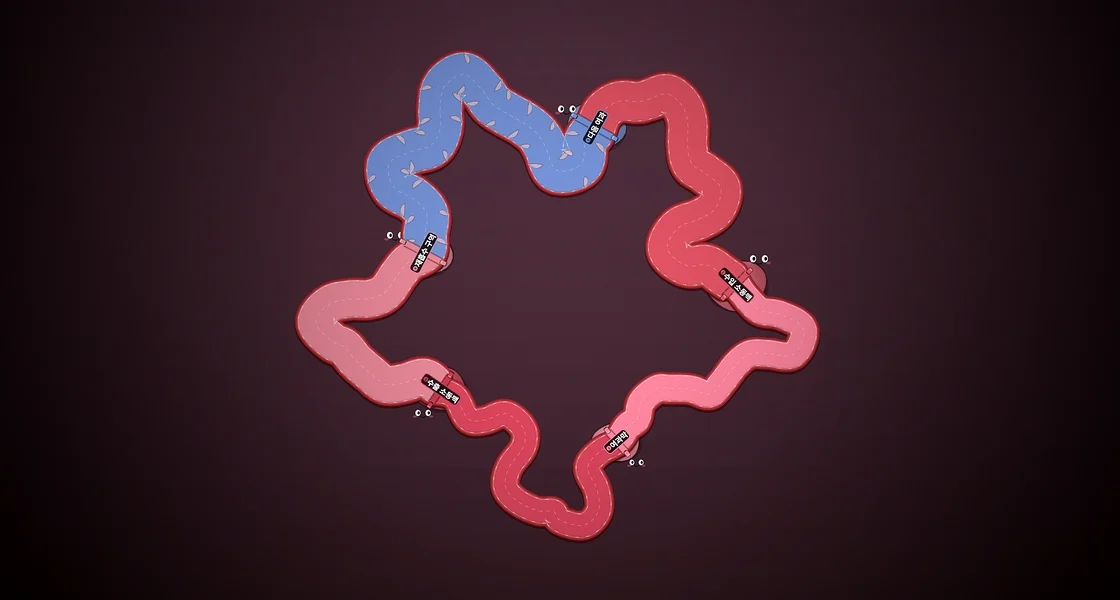
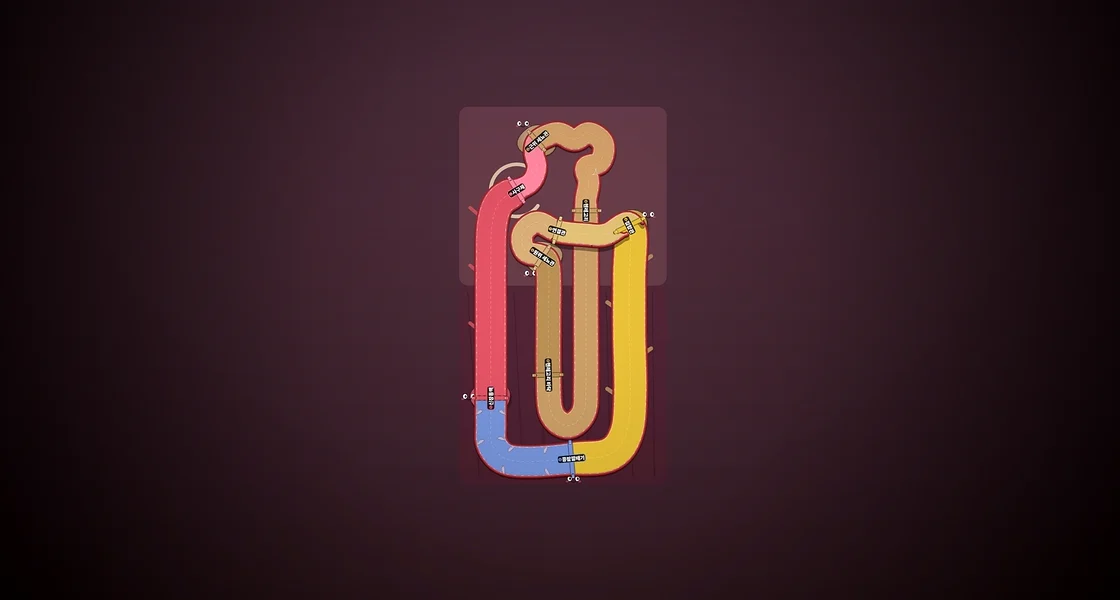
버전 116

Changed region(s): [[0.25, 0.06, 0.75, 0.9]]

diff --git a/index.html b/index.html
@@ -2105,6 +2105,37 @@ Object.assign(EN, {
 '남은 물을 빨아들이고 나머지를 내보냅니다.': 'It absorbs the remaining water and sends the rest out.',
 
 // ── 호흡계
+'섬모체': 'Ciliary body', '빛을 받는 벽': 'The wall that catches light', '맹점 쪽으로': 'Toward the blind spot', '공막 · 혈관막': 'Sclera and choroid',
+'눈을 감싸는 벽': 'The wall around the eye', '공막': 'Sclera',
+'수정체를 붙잡고 두께를 바꾸는 근육 고리 — 여기서 망막으로 올라갑니다': 'The muscle ring that changes the lens thickness; from here you climb onto the retina',
+'눈 안쪽 벽을 덮은 얇은 막. 시세포가 빛을 전기 신호로 바꿉니다.': 'A thin layer lining the inside of the eye. Its cells turn light into electrical signals.',
+'눈 안쪽 벽을 따라 크게 도는 길 — 가운데 유리체는 비어 있어요': 'A big sweep along the inner wall of the eye; the jelly in the middle stays empty',
+'황반 바로 옆, 시신경이 빠져나가는 자리로': 'Right beside the macula, to where the optic nerve leaves',
+'흰자위인 공막이 눈을 튼튼하게 감싸고, 그 안쪽 혈관막이 망막에 영양을 줍니다.': 'The white sclera protects the eye, and the choroid inside it feeds the retina.',
+'눈알 바깥 벽을 따라 앞쪽 각막으로 돌아오는 넓은 길': 'A wide road along the outer wall back to the cornea',
+'네프론 서킷': 'Nephron Circuit', '신장동맥': 'Renal artery', '피가 들어오는 길': 'Blood comes in', '사구체': 'Glomerulus', '피를 거르는 곳': 'Filters the blood',
+'보먼주머니': "Bowman's capsule", '근위 세뇨관': 'Proximal tubule', '되찾아 오기': 'Taking back', '헨레고리': 'Loop of Henle', '물 되찾기': 'Taking back water',
+'헨레고리 내려가는 관': 'Descending limb', '헨레고리 바닥': 'Bottom of the loop', '소금 내보내기': 'Pushing out salt', '헨레고리 올라가는 관': 'Ascending limb',
+'원위 세뇨관': 'Distal tubule', '마지막 조절': 'Final adjustment', '연결관': 'Connecting tubule', '집합관으로': 'To the collecting duct', '연결관 다리': 'Connecting bridge',
+'집합관': 'Collecting duct', '오줌 모으기': 'Collecting urine', '콩팥깔때기': 'Renal pelvis', '방광으로': 'To the bladder', '다시 신장동맥으로': 'Back to the renal artery',
+'심장에서 나온 피의 약 4분의 1이 콩팥으로 들어옵니다. 걸러야 할 피가 아주 많아요.': 'About a quarter of the blood from the heart goes to the kidneys. That is a lot to filter.',
+'굵은 동맥을 따라 곧게 올라가는 길': 'A straight climb along the thick artery',
+'모세혈관이 실뭉치처럼 감긴 곳. 물 · 포도당 · 요소는 빠져나가고, 단백질과 혈구는 남습니다.': 'A ball of tangled capillaries. Water, glucose and urea pass out; proteins and blood cells stay.',
+'사구체를 감싼 주머니. 걸러진 여과액이 여기로 모입니다': 'The cup around the glomerulus that collects the filtrate',
+'포도당은 전부, 물은 대부분 여기서 다시 핏속으로 되찾아 옵니다.': 'All the glucose and most of the water go back into the blood here.',
+'구불구불 꼬여 길어진 관 — 되찾는 일을 가장 많이 하는 곳': 'A long twisty tube that does most of the taking back',
+'콩팥 속질 깊이 내려갔다 올라오는 U자 고리. 내려가는 동안 물이 빠져나가 오줌이 진해집니다.': 'A U-shaped loop deep into the medulla. Water leaves on the way down, so urine gets stronger.',
+'곧게 쭉 내려가는 긴 관 — 가장 빠른 직선': 'A long straight dive: the fastest straight',
+'올라오는 관은 물은 못 지나가고 소금만 내보냅니다. 그래서 속질이 짭짤해져요.': 'The way up lets out salt but not water, so the medulla gets salty.',
+'다시 곧게 올라오는 관': 'A straight climb back up',
+'몸에 필요한 만큼 물과 염류의 양을 마지막으로 맞춥니다. 사구체 바로 옆으로 돌아와요.': 'The final fine-tuning of water and salts, right next to the glomerulus.',
+'사구체 옆에서 한 번 더 꼬이는 관': 'One more twist beside the glomerulus',
+'네프론 하나에서 만든 오줌이 집합관으로 건너갑니다.': 'Urine from one nephron crosses to the collecting duct.',
+'헨레고리 위를 다리로 건너 집합관으로': 'A bridge over the loop of Henle to the collecting duct',
+'여러 네프론의 오줌이 모이는 굵은 관. 여기서도 물을 조금 더 되찾고 콩팥깔때기로 내려갑니다.': 'A thick duct where urine from many nephrons meets, takes back a little more water and heads to the renal pelvis.',
+'굵어지며 곧게 내려가는 오줌길 — 두 번째 직선': 'A widening straight run down: the second straight',
+'오줌은 오줌관을 따라 방광으로 갑니다. 깨끗해진 피는 온몸을 돌아 다시 신장동맥으로 들어와요.': 'Urine goes down the ureter to the bladder. Clean blood travels the body and comes back through the renal artery.',
+'피는 온몸을 돌아 다시 콩팥으로 — 네프론은 쉬지 않습니다': 'Blood goes round the body and back: the nephron never rests',
 '왼쪽 세기관지': 'Left bronchioles', '공기주머니': 'Air sacs', '가로막': 'Diaphragm', '오른쪽 폐': 'Right lung', '코로 나감': 'Out through the nose',
 '왼쪽 폐 속으로 갈라지며 파고드는 가는 길': 'A narrow path branching deep into the left lung',
 '포도송이 모양의 작은 공기주머니. 폐 하나에 수억 개가 있어 표면적이 아주 넓습니다.': 'Tiny grape-like air sacs. Each lung has hundreds of millions, so the surface area is huge.',
@@ -2218,6 +2249,16 @@ Object.assign(EN, {
    맨 위가 지금 판이다. 아래 CHANGES[0].v 가 화면 왼쪽 아래 숫자가 된다 —
    판을 올릴 때는 여기 한 줄만 새로 얹으면 된다. */
 const CHANGES = [
+    { v: 116, d: '9월 11일', t: [
+        '사구체 맵을 네프론 서킷으로 새로 만들었다 — 신장동맥 → 사구체 → 세뇨관 → 헨레고리 → 다리 건너 집합관',
+        'The glomerulus map is now the Nephron Circuit: renal artery, glomerulus, tubules, loop of Henle, then a bridge to the collecting duct',
+        '헨레고리와 집합관은 곧게 쭉 뻗은 직선 — 겉질 · 속질 층과 사구체 실뭉치 그림',
+        'The loop of Henle and collecting duct are long straights, over cortex and medulla layers with a glomerulus drawing',
+        '시각계를 눈 단면 테두리 코스로 — 가운데 유리체는 비우고 각막 · 수정체 · 망막 · 시신경 · 공막을 돈다',
+        'The visual map now circles the rim of an eye cross-section: cornea, lens, retina, optic nerve and sclera, with the middle left open',
+        '눈 그림의 동공은 커졌다 작아지고, 수정체는 두꺼워졌다 얇아진다',
+        'In the eye drawing the pupil widens and narrows and the lens thickens and thins'
+    ] },
     { v: 115, d: '9월 11일', t: [
         '호흡계 서킷을 새로 만들었다 — 교과서 그림처럼 코 → 기관 → 기관지 → 왼쪽 폐 → 가로막 → 오른쪽 폐 → 날숨',
         'Respiratory circuit rebuilt like the textbook picture: nose, trachea, bronchi, left lung, diaphragm, right lung, exhale',
@@ -3135,81 +3176,67 @@ const SYSTEMS = {
     ,
     visual: {
         island: 'eye',
-        id: 'visual', name: '시각계 그랑프리', laps: 4, closed: true, halfWidth: 178,
+        id: 'visual', name: '시각계 그랑프리', laps: 5, closed: true, halfWidth: 178,
         grass: ['#2e3f5c', '#1f2b40'], accent: '#ffd166',
-        /* 안구는 고리다. 빛은 동공을 지나 유리체를 곧장 가로질러 뒤쪽 벽(황반)에
-           맺히고, 망막이 그 벽을 따라 330도 이어진다. 시신경은 황반 바로 옆
-           맹점으로 빠져나간다 — 맹점에 시세포가 없는 이유다.
-           들어가는 빛의 길은 망막 고리를 다리로 넘어간다(over). 실제로도 빛은
-           망막 위를 지나 안쪽에 맺힌다. */
+        /* 2026-09-11 다시 만듦 — 사용자가 준 눈 단면 그림 + "가운데는 비워두고 옆의 테두리로 도는 맵".
+           앞(왼쪽)의 각막으로 들어와 동공 · 수정체를 지나, 섬모체에서 눈 안쪽 벽(망막)을 따라 위로 크게 돌아
+           뒤쪽 황반에 닿고, 맹점에서 시신경으로 빠져나가 시각 교차 · 시각 피질을 돌아 공막을 따라 앞으로 돌아온다.
+           예전 코스는 유리체를 한가운데로 가로질러 눈 모양이 안 보였다. 이제 가운데(유리체)는 비워 두고 얼굴만 둔다.
+           좌표는 patch_visual.py 가 크기 비율 S = 1.1 로 만든 것 (기준 좌표 × S, 중심 2600,2400). */
+        landmarks: [
+            { type: 'eye', at: [2600, 2400], r: 2640, s: 1.1 }
+        ],
         flow: [
-            { name: '각막', at: [3550, 1900], color: '#bfe3f7', role: '빛의 창문', blob: 260,
+            { name: '각막', at: [576, 2675], color: '#bfe3f7', role: '빛의 창문', blob: 260,
               info: '눈의 맨 앞을 덮은 투명한 창. 빛이 여기서 처음 꺾입니다.',
-              seg: { name: '동공', color: '#8fb8d8', wMul: .5, over: true,
+              seg: { name: '동공', color: '#8fb8d8', wMul: .55,
                      desc: '홍채가 만든 구멍. 밝으면 좁아지고 어두우면 넓어집니다' },
-              /* 다리를 망막 고리(오른쪽 벽 x≈3140) 너머까지 늘린다.
-                 예전에는 수정체가 그 벽에서 겨우 90 안쪽에 있어, 다리에서 내려서자마자
-                 유리체 길이 망막 옆에 바짝 붙었다 — 두 길이 한 길처럼 보였다(겹침 1240).
-                 수정체를 380 안쪽으로 옮겨 틈을 벌린다. 제어점 간격은 150 안팎으로 고르게. */
-              via: [[3378, 1893], [3214, 1896], [3050, 1900], [2903, 1925]] },
+              via: [[543, 2510], [510, 2345], [554, 2125], [675, 2048], [873, 2147], [1115, 2290]] },
 
-            { name: '수정체', at: [2760, 1961], color: '#e8f4fb', role: '초점 조절', blob: 0,
+            { name: '수정체', at: [1335, 2378], color: '#e8f4fb', role: '초점 조절', blob: 0,
               chamber: { w: 240, h: 250, wall: 30, tint: '#f2fbff' },
               pump: { power: .8, label: '초점 조절!', desc: '섬모체가 수정체를 두껍게 · 얇게 바꿔 초점을 맞춥니다.' },
               info: '탄력 있는 볼록렌즈. 가까운 것을 볼 땐 두꺼워지고, 먼 것을 볼 땐 얇아집니다.',
-              seg: { name: '유리체', color: '#9fd0ff', wMul: 1.1,
-                     desc: '안구를 가득 채운 맑은 젤리. 빛이 곧장 가로지릅니다 — 전속력 구간!' },
-              /* 곧장 가로지르되 끝에서 살짝 아래로 처졌다 올라온다 —
-                 망막 호가 황반에서 위로 출발하므로, 아래에서 접선으로 닿아야 꺾이지 않는다.
-                 제어점 간격은 300 안팎 — 이 게임은 제어점마다 샘플 20개를 깔므로,
-                 간격이 넓으면 샘플이 성글어져 AI 조향이 흐트러진다. */
-              via: [[2605, 1963], [2457, 1981], [2346, 2118],
-                   [2231, 2255], [2083, 2264], [1911, 2188], [1761, 2145], [1624, 2229],
-                   [1471, 2280], [1332, 2228], [1206, 2142], [1079, 2065], [956, 1995]] },
+              seg: { name: '섬모체', color: '#c48a7a', wMul: .8,
+                     desc: '수정체를 붙잡고 두께를 바꾸는 근육 고리 — 여기서 망막으로 올라갑니다' },
+              via: [[1555, 2235], [1528, 2070], [1500, 1905], [1418, 1740], [1335, 1575], [1251, 1386], [1167, 1198], [1301, 1055], [1449, 926], [1609, 814], [1780, 719], [1960, 643]] },
 
-            { name: '황반', at: [850, 1900], color: '#ffd166', role: '상이 맺히는 곳', blob: 0,
+            { name: '망막', at: [2148, 586], color: '#e8956b', role: '빛을 받는 벽', blob: 0,
+              info: '눈 안쪽 벽을 덮은 얇은 막. 시세포가 빛을 전기 신호로 바꿉니다.',
+              seg: { name: '망막', color: '#e8956b', wMul: .8,
+                     desc: '눈 안쪽 벽을 따라 크게 도는 길 — 가운데 유리체는 비어 있어요' },
+              via: [[2340, 548], [2535, 531], [2730, 535], [2925, 558], [3115, 602], [3301, 666], [3478, 749], [3646, 850], [3802, 967], [3945, 1101], [4074, 1249], [4186, 1409], [4281, 1580], [4357, 1760], [4414, 1948], [4452, 2140]] },
+
+            { name: '황반', at: [4470, 2400], color: '#ffd166', role: '상이 맺히는 곳', blob: 0,
               pump: { power: .9, label: '선명하게!', desc: '시세포가 가장 촘촘한 곳. 상이 가장 또렷하게 맺힙니다.' },
               info: '망막 한가운데. 여기 맺힌 상은 위아래가 뒤집혀 있습니다 — 바로잡는 건 뇌의 몫!',
-              seg: { name: '망막', color: '#e8956b', wMul: .8,
-                     desc: '눈 안쪽을 덮은 시세포의 벽. 한 호흡으로 도는 330도 대회전!' },
-              via: [[794, 1740], [828, 1582], [972, 1474], [1094, 1377], [1128, 1231],
-                   [1117, 1016], [1216, 879], [1420, 895], [1609, 958], [1731, 899],
-                   [1845, 721], [2001, 605], [2160, 685], [2276, 871], [2385, 970],
-                   [2560, 930], [2773, 893], [2902, 999], [2900, 1209], [2937, 1359],
-                   [3045, 1467], [3111, 1602], [3140, 1750], [3150, 1900], [3140, 2050],
-                   [3111, 2198], [3063, 2340], [3045, 2504], [2965, 2641], [2785, 2685],
-                   [2619, 2706], [2542, 2839], [2476, 3049], [2334, 3147], [2152, 3059],
-                   [2000, 2927], [1864, 2932], [1695, 3036], [1520, 3059], [1399, 2940],
-                   [1323, 2782], [1220, 2674], [1099, 2583]] },
+              seg: { name: '맹점 쪽으로', color: '#ffd166', wMul: .8,
+                     desc: '황반 바로 옆, 시신경이 빠져나가는 자리로' },
+              via: [[4460, 2595]] },
 
-            { name: '맹점', at: [1004, 2475], color: '#8a9aa8', role: '시세포가 없는 곳', blob: 200,
+            { name: '맹점', at: [4429, 2789], color: '#8a9aa8', role: '시세포가 없는 곳', blob: 200,
               info: '시신경이 빠져나가는 자리라 시세포가 없습니다. 누구 눈에나 보이지 않는 점이 하나씩 있어요!',
               seg: { name: '시신경', color: '#c77dff', wMul: .8,
                      desc: '백만 가닥의 신경 다발이 뇌를 향해 출발합니다' },
-              /* 맹점에서 달리던 방향 그대로 황반과의 틈으로 빠져나가 바깥을 크게 돈다 */
-              via: [[879, 2391], [737, 2333], [573, 2328], [437, 2414], [414, 2598],
-                   [405, 2750], [304, 2850], [156, 3000], [161, 3182], [340, 3278],
-                   [525, 3313], [613, 3419], [646, 3613], [737, 3787], [904, 3792],
-                   [1103, 3690], [1255, 3672], [1375, 3819], [1496, 3988], [1651, 4015],
-                   [1812, 3891], [1976, 3777], [2118, 3835], [2261, 3994], [2420, 4073],
-                   [2565, 3970], [2700, 3792], [2838, 3742], [3004, 3845], [3167, 3901]] },
+              via: [[4532, 2897], [4635, 3005], [4828, 3005], [5020, 3005], [5212, 2895], [5405, 2785], [5552, 2631], [5698, 2477]] },
 
-            { name: '시각 교차', at: [3300, 3800], color: '#b58cf0', role: '좌우 교차', blob: 240,
+            { name: '시각 교차', at: [5845, 2323], color: '#b58cf0', role: '좌우 교차', blob: 240,
               info: '양쪽 눈에서 온 신호가 여기서 절반씩 교차합니다. 그래서 두 눈이 하나의 장면을 만듭니다.',
               seg: { name: '시각로', color: '#9d6ee0', wMul: .8,
                      desc: '교차를 마친 신호가 뇌 뒤쪽을 향해 달립니다' },
-              via: [[3447, 3762], [3580, 3628], [3723, 3668], [3901, 3789], [4062, 3821],
-                   [4176, 3680], [4252, 3492], [4361, 3392], [4541, 3423], [4709, 3430]] },
+              via: [[6028, 2257], [6212, 2191], [6395, 2125], [6588, 2235], [6780, 2345], [6846, 2592]] },
 
-            { name: '시각 피질', at: [4800, 3300], color: '#ffd166', role: '뒤통수에서 본다', blob: 280,
+            { name: '시각 피질', at: [6912, 2840], color: '#ffd166', role: '뒤통수에서 본다', blob: 280,
               info: '보는 곳은 눈이 아니라 뇌의 뒤쪽입니다. 뒤집힌 상을 바로잡는 것도 여기서 합니다.',
               seg: { name: '다음 장면', color: '#bfe3f7', wMul: 1.0,
                      desc: '눈은 1초에 서너 번씩 움직이며 쉬지 않고 새 장면을 담습니다' },
-              via: [[4915, 3196], [4935, 3017], [5048, 2927], [5240, 2861], [5363, 2734],
-                   [5322, 2553], [5214, 2389], [5203, 2249], [5307, 2093], [5374, 1914],
-                   [5284, 1769], [5101, 1690], [4973, 1610], [4933, 1464], [4867, 1272],
-                   [4715, 1191], [4531, 1282], [4399, 1388], [4265, 1390], [4074, 1344],
-                   [3904, 1376], [3828, 1534], [3798, 1721], [3674, 1809]] }
+              via: [[6850, 3023], [6787, 3207], [6725, 3390], [6542, 3493], [6358, 3595], [6175, 3698], [5955, 3727], [5735, 3757], [5515, 3786], [5295, 3775], [5075, 3764], [4855, 3753], [4635, 3742], [4397, 3735], [4160, 3729], [3922, 3722], [3777, 3853], [3618, 3968], [3449, 4066], [3270, 4146], [3084, 4206]] },
+
+            { name: '공막 · 혈관막', at: [2893, 4247], color: '#e8e8f0', role: '눈을 감싸는 벽', blob: 240,
+              info: '흰자위인 공막이 눈을 튼튼하게 감싸고, 그 안쪽 혈관막이 망막에 영양을 줍니다.',
+              seg: { name: '공막', color: '#e8e8f0', wMul: 1.05,
+                     desc: '눈알 바깥 벽을 따라 앞쪽 각막으로 돌아오는 넓은 길' },
+              via: [[2698, 4267], [2502, 4267], [2307, 4247], [2116, 4206], [1930, 4146], [1751, 4066], [1582, 3968], [1423, 3853], [1278, 3722], [1147, 3577], [1032, 3418], [934, 3249], [821, 3099], [708, 2950], [642, 2812]] }
         ],
         pickups: [
             { icon: '빛', name: '빛줄기',    color: '#ffe9a0', effect: 'turbo', img: 'rbc',
@@ -3238,58 +3265,71 @@ const SYSTEMS = {
     ,
     glomerulus: {
         island: 'kidney',
-        id: 'glomerulus', name: '사구체 미로', laps: 5, /* 4 바퀴는 151 초로 짧았다 — 다른 맵(180~220 초)에 맞춘다 */ closed: true, halfWidth: 178,
+        id: 'glomerulus', name: '네프론 서킷', laps: 5, /* 4 바퀴는 151 초로 짧았다 — 다른 맵(180~220 초)에 맞춘다 */ closed: true, halfWidth: 178,
         grass: ['#5c3a4a', '#40262f'], accent: '#ff8fa8',
-        /* 콩팥 하나에 사구체가 백만 개 있다. 그중 하나를 현미경으로 확대했다.
-           모세혈관이 실뭉치처럼 감긴 곳 — 다섯 잎이 깊게 파이며 안팎을 오간다.
-           고리를 여러 겹 쌓는 대신 별 모양 곡선을 쓴 이유가 있다. 고리 사이를
-           건너뛰는 길은 반드시 다른 고리를 가로지르는데, 이 곡선은 중심에서 뻗는
-           어떤 반직선과도 딱 한 번만 만나므로 자기 겹침이 아예 생기지 않는다. */
+        /* 2026-09-11 다시 만듦 — 사용자가 준 교과서 그림 '신장 내부 구조(네프론)' 배치 그대로.
+           신장동맥이 올라가 사구체에서 걸러지고, 근위 세뇨관에서 되찾고, 헨레고리를 쭉 내려갔다 올라와,
+           원위 세뇨관에서 한 번 더 꼬인 뒤 헨레고리 위를 다리로 건너 집합관으로 내려간다.
+           예전 '사구체 미로'는 별 모양 곡선이라 무엇을 달리는지 알 수 없었다. 헨레고리 · 집합관은 시원한 직선.
+           좌표는 patch_nephron.py 가 크기 비율 S = 0.72 로 만든 것 (기준 좌표 × S, 중심 4200,3200). */
+        landmarks: [
+            { type: 'nephron', at: [4200, 3200], r: 2448, s: 0.72 }
+        ],
         flow: [
-            { name: '수입 소동맥', at: [4001, 2200], color: '#e05c6e', role: '피가 들어오는 문', blob: 260,
+            { name: '신장동맥', at: [3336, 4424], color: '#e05c6e', role: '피가 들어오는 길', blob: 250,
+              info: '심장에서 나온 피의 약 4분의 1이 콩팥으로 들어옵니다. 걸러야 할 피가 아주 많아요.',
+              seg: { name: '신장동맥', color: '#e05c6e', wMul: 1.0,
+                     desc: '굵은 동맥을 따라 곧게 올라가는 길' },
+              via: [[3336, 3920], [3336, 3344], [3336, 2768], [3350, 2264], [3444, 1976]] },
+
+            { name: '사구체', at: [3660, 1832], color: '#ff8fa8', role: '피를 거르는 곳', blob: 0,
               pump: { power: .9, label: '여과 압력!', desc: '들어오는 관이 나가는 관보다 굵어 안이 꽉 눌립니다. 그 힘으로 거릅니다.' },
-              info: '콩팥 동맥에서 갈라져 나온 가는 관. 사구체로 피를 밀어 넣습니다.',
-              seg: { name: '모세혈관 뭉치', color: '#ff8fa8', wMul: .6,
-                     desc: '실뭉치처럼 물결치며 감긴 바깥 고리. 물 · 포도당 · 요소가 벽 틈으로 빠져나갑니다' },
-              via: [[4103, 2322], [4208, 2417], [4377, 2449], [4569, 2569], [4484, 2784],
-                   [4269, 2775], [4121, 2777], [4004, 2863], [3882, 3020], [3780, 3119],
-                   [3623, 3074], [3435, 3067], [3338, 3071], [3210, 3177], [3170, 3324],
-                   [3091, 3386]] },
+              info: '모세혈관이 실뭉치처럼 감긴 곳. 물 · 포도당 · 요소는 빠져나가고, 단백질과 혈구는 남습니다.',
+              seg: { name: '보먼주머니', color: '#ff8fa8', wMul: .62,
+                     desc: '사구체를 감싼 주머니. 걸러진 여과액이 여기로 모입니다' },
+              via: [[3840, 1724], [3912, 1544], [3876, 1364]] },
 
-            { name: '여과막', at: [3001, 3514], color: '#ff8fa8', role: '크기로 거른다', blob: 200,
-              info: '단백질과 혈구는 여과 틈보다 커서 빠져나가지 못합니다. 오줌에 단백질이 없는 이유!',
-              seg: { name: '안쪽 뭉치', color: '#d94f66', wMul: .55,
-                     desc: '더 깊고 더 촘촘하게 감긴 안쪽 고리. 사구체의 심장부' },
-              via: [[2857, 3600], [2756, 3732], [2836, 3919], [2847, 4100], [2720, 4218],
-                   [2523, 4173], [2470, 4099], [2347, 4096], [2178, 4020], [2068, 3898],
-                   [2098, 3729], [2220, 3555], [2218, 3403], [2070, 3279], [1896, 3333],
-                   [1755, 3325], [1649, 3142]] },
+            { name: '근위 세뇨관', at: [3912, 1220], color: '#d8a878', role: '되찾아 오기', blob: 240,
+              info: '포도당은 전부, 물은 대부분 여기서 다시 핏속으로 되찾아 옵니다.',
+              seg: { name: '근위 세뇨관', color: '#d8a878', wMul: .7, reabsorb: .42,
+                     desc: '구불구불 꼬여 길어진 관 — 되찾는 일을 가장 많이 하는 곳' },
+              via: [[4164, 1112], [4380, 1198], [4560, 1112], [4740, 1242], [4704, 1472], [4524, 1544], [4560, 1724], [4524, 1940]] },
 
-            { name: '수출 소동맥', at: [1524, 3077], color: '#c94358', role: '피가 나가는 문', blob: 220,
-              info: '걸러지고 남은 피가 빠져나갑니다. 들어온 관보다 가늘어 압력을 지켜 줍니다.',
-              seg: { name: '세뇨관 주위 모세혈관', color: '#e88fa0', wMul: .85, reabsorb: .42,
-                     desc: '세뇨관을 감싸며 도는 길. 버렸던 것 중 필요한 것을 도로 빨아들입니다' },
-              via: [[1392, 2976], [1219, 3020], [1060, 3033], [932, 2939], [807, 2829],
-                   [720, 2724], [607, 2667], [477, 2512], [592, 2361], [763, 2319],
-                   [928, 2315], [1061, 2258], [1167, 2110], [1258, 2004]] },
+            { name: '헨레고리', at: [4524, 2084], color: '#c9a070', role: '물 되찾기', blob: 0,
+              info: '콩팥 속질 깊이 내려갔다 올라오는 U자 고리. 내려가는 동안 물이 빠져나가 오줌이 진해집니다.',
+              seg: { name: '헨레고리 내려가는 관', color: '#c9a070', wMul: .8,
+                     desc: '곧게 쭉 내려가는 긴 관 — 가장 빠른 직선' },
+              via: [[4524, 2768], [4524, 3488], [4524, 4208], [4495, 4604], [4294, 4770], [4092, 4604]] },
 
-            { name: '재흡수 구역', at: [1383, 1930], color: '#e88fa0', role: '되찾아 오기', blob: 240,
-              info: '여과로 버린 것의 99퍼센트를 다시 빨아들입니다. 포도당은 전부, 물은 거의 전부!',
-              seg: { name: '콩팥 정맥으로', color: '#7f97d8', wMul: 1.0, vein: true,
-                     desc: '깨끗해진 피가 사구체를 크게 한 바퀴 돌아 나갑니다' },
-              via: [[1393, 1771], [1408, 1608], [1302, 1482], [1130, 1377], [1089, 1182],
-                   [1273, 1083], [1447, 1028], [1519, 879], [1519, 718], [1554, 536],
-                   [1721, 432], [1872, 566], [1956, 679], [2068, 756], [2214, 838],
-                   [2331, 930], [2405, 1048], [2495, 1239], [2701, 1191], [2738, 1002]] },
+            { name: '헨레고리 바닥', at: [4056, 4136], color: '#b8905e', role: '소금 내보내기', blob: 0,
+              info: '올라오는 관은 물은 못 지나가고 소금만 내보냅니다. 그래서 속질이 짭짤해져요.',
+              seg: { name: '헨레고리 올라가는 관', color: '#b8905e', wMul: .8,
+                     desc: '다시 곧게 올라오는 관' },
+              via: [[4056, 3416], [4056, 2840]] },
 
-            { name: '다음 여과', at: [2820, 879], color: '#7f97d8', role: '쉼 없이', blob: 250,
-              info: '온몸의 피가 하루에 300번 넘게 콩팥을 지나갑니다. 사구체는 쉬는 법이 없습니다.',
-              seg: { name: '다시 소동맥', color: '#e05c6e', wMul: .9,
-                     desc: '피는 또 들어옵니다. 여과는 살아 있는 동안 멈추지 않습니다' },
-              via: [[2890, 739], [3020, 658], [3179, 664], [3271, 642], [3428, 597],
-                   [3552, 702], [3597, 843], [3595, 1020], [3627, 1179], [3739, 1261],
-                   [3875, 1385], [3828, 1558], [3693, 1648], [3516, 1721], [3426, 1901],
-                   [3585, 2037], [3757, 2031], [3882, 2113]] }
+            { name: '원위 세뇨관', at: [3984, 2660], color: '#d8b080', role: '마지막 조절', blob: 240,
+              info: '몸에 필요한 만큼 물과 염류의 양을 마지막으로 맞춥니다. 사구체 바로 옆으로 돌아와요.',
+              seg: { name: '원위 세뇨관', color: '#d8b080', wMul: .7,
+                     desc: '사구체 옆에서 한 번 더 꼬이는 관' },
+              via: [[3768, 2588], [3732, 2372], [3912, 2228]] },
+
+            { name: '연결관', at: [4164, 2336], color: '#e0c080', role: '집합관으로', blob: 0,
+              info: '네프론 하나에서 만든 오줌이 집합관으로 건너갑니다.',
+              seg: { name: '연결관 다리', color: '#e0c080', wMul: .7, over: true,
+                     desc: '헨레고리 위를 다리로 건너 집합관으로' },
+              via: [[4524, 2408], [4776, 2408]] },
+
+            { name: '집합관', at: [5064, 2264], color: '#e8c24a', role: '오줌 모으기', blob: 240,
+              info: '여러 네프론의 오줌이 모이는 굵은 관. 여기서도 물을 조금 더 되찾고 콩팥깔때기로 내려갑니다.',
+              seg: { name: '집합관', color: '#e8c24a', wMul: 1.1,
+                     desc: '굵어지며 곧게 내려가는 오줌길 — 두 번째 직선' },
+              via: [[5064, 2912], [5064, 3632], [5078, 4352], [5028, 4856], [4812, 5130]] },
+
+            { name: '콩팥깔때기', at: [4344, 5180], color: '#7f97d8', role: '방광으로', blob: 250,
+              info: '오줌은 오줌관을 따라 방광으로 갑니다. 깨끗해진 피는 온몸을 돌아 다시 신장동맥으로 들어와요.',
+              seg: { name: '다시 신장동맥으로', color: '#7f97d8', wMul: 1.0, vein: true,
+                     desc: '피는 온몸을 돌아 다시 콩팥으로 — 네프론은 쉬지 않습니다' },
+              via: [[3840, 5216], [3516, 5180], [3350, 5000], [3336, 4748]] }
         ],
         pickups: [
             { icon: '물', name: '물',        color: '#6ec6f2', effect: 'turbo', img: 'rbc',
@@ -6040,6 +6080,82 @@ function drawChest(g, t, i) {
     g.restore();
 }
 
+/* ---- 네프론 그림 (사용자가 준 교과서 그림 '신장 내부 구조') ----
+   도로 아래에 깔린다. 기준 좌표(patch_nephron.py 의 좌표)를 크기 비율 S 로 줄여 코스와 1:1 로 맞춘다.
+   겉질(위) · 속질(아래) 층, 속질의 콩팥 피라미드 줄무늬, 신장동맥 · 집합관 곁가지,
+   그리고 보먼주머니에 싸인 사구체 실뭉치 — 여과 압력에 맞춰 살짝 두근거린다. */
+function drawNephron(g, t, i, S) {
+    const Q = (x, y) => [(x - 4200) * S, (y - 3200) * S];
+    const box = (x0, y0, x1, y1, fill) => {
+        const [ax, ay] = Q(x0, y0), [bx, by] = Q(x1, y1);
+        g.fillStyle = fill; g.beginPath(); g.roundRect(ax, ay, bx - ax, by - ay, 160 * S); g.fill();
+    };
+    const line = (x0, y0, x1, y1) => {
+        const [ax, ay] = Q(x0, y0), [bx, by] = Q(x1, y1);
+        g.beginPath(); g.moveTo(ax, ay); g.lineTo(bx, by); g.stroke();
+    };
+    g.save(); g.lineJoin = 'round'; g.lineCap = 'round';
+    box(2450, -150, 6050, 2950, 'rgba(236,150,160,.16)');       // 겉질
+    box(2450, 2950, 6050, 6400, 'rgba(110,30,55,.24)');         // 속질
+    g.strokeStyle = 'rgba(0,0,0,.10)'; g.lineWidth = 26 * S;    // 콩팥 피라미드 줄무늬
+    for (let k = 0; k < 9; k++) line(2600 + k * 400, 3050, 2800 + k * 380, 6250);
+    g.strokeStyle = 'rgba(201,160,112,.75)'; g.lineWidth = 70 * S;   // 집합관 곁가지 (다른 네프론에서 오는 관)
+    [[2700, 1], [3500, -1], [4300, 1], [5000, -1]].forEach(([y, sd]) => line(5400, y, 5400 + sd * 380, y - 260));
+    g.strokeStyle = 'rgba(224,92,110,.75)'; g.lineWidth = 60 * S;    // 신장동맥 곁가지
+    [1900, 2900, 3900].forEach(y => line(3000, y, 2640, y - 300));
+    const [gx, gy] = Q(3450, 1300), beat = 1 + Math.pow(Math.max(0, Math.sin(t * 2.2)), 6) * .06;
+    g.save(); g.translate(gx, gy); g.scale(beat, beat);
+    g.strokeStyle = 'rgba(240,216,192,.85)'; g.lineWidth = 60 * S;   // 보먼주머니 — 한쪽이 열려 세뇨관으로 이어진다
+    g.beginPath(); g.arc(0, 0, 440 * S, Math.PI * .2, Math.PI * 1.8); g.stroke();
+    g.strokeStyle = '#e0405a'; g.lineWidth = 26 * S;                 // 사구체 모세혈관 실뭉치
+    for (let k = 0; k < 8; k++) {
+        const a = k / 8 * TAU + t * .2, r = 180 * S;
+        g.beginPath(); g.arc(Math.cos(a) * r * .6, Math.sin(a) * r * .6, r * .55, 0, TAU); g.stroke();
+    }
+    g.restore();
+    drawFace(g, gx, gy - 40 * S, 210 * S, i);
+    g.restore();
+}
+
+/* ---- 눈 단면 그림 (사용자가 준 눈 단면 그림) ----
+   도로 아래에 깔린다. 기준 좌표(patch_visual.py)를 크기 비율 S 로 줄여 코스와 1:1.
+   바깥부터 공막(흰 벽) · 혈관막(짙은 붉은 층) · 망막(주황 층), 가운데는 비워 둔 유리체.
+   앞(왼쪽)에 각막 · 홍채 · 수정체, 뒤(오른쪽)로 시신경 다발.
+   동공은 밝기 따라 커졌다 작아졌다, 수정체는 초점 맞추듯 두꺼워졌다 얇아졌다 한다. */
+function drawEye(g, t, i, S) {
+    const Q = (x, y) => [(x - 2600) * S, (y - 2400) * S];
+    const R = 1700 * S;
+    g.save(); g.lineJoin = 'round'; g.lineCap = 'round';
+    const [a1, b1] = Q(4200, 2650), [a2, b2] = Q(5300, 2450), [a3, b3] = Q(5800, 2250);   // 시신경 다발
+    g.strokeStyle = 'rgba(240,210,120,.5)'; g.lineWidth = 260 * S;
+    g.beginPath(); g.moveTo(a1, b1); g.quadraticCurveTo(a2, b2, a3, b3); g.stroke();
+    g.fillStyle = 'rgba(245,245,250,.55)'; g.beginPath(); g.arc(0, 0, R + 260 * S, 0, TAU); g.fill();   // 공막
+    g.fillStyle = 'rgba(150,40,50,.45)';  g.beginPath(); g.arc(0, 0, R + 120 * S, 0, TAU); g.fill();   // 혈관막
+    g.fillStyle = 'rgba(232,149,107,.55)'; g.beginPath(); g.arc(0, 0, R - 60 * S, 0, TAU); g.fill();   // 망막
+    const vg = g.createRadialGradient(-R * .2, -R * .2, R * .1, 0, 0, R);                          // 유리체
+    vg.addColorStop(0, 'rgba(210,235,255,.6)'); vg.addColorStop(1, 'rgba(120,170,210,.45)');
+    g.fillStyle = vg; g.beginPath(); g.arc(0, 0, R - 180 * S, 0, TAU); g.fill();
+    g.strokeStyle = 'rgba(200,60,60,.35)'; g.lineWidth = 24 * S;                                    // 망막 혈관 : 뒤쪽 시신경 자리에서 퍼진다
+    for (let k = 0; k < 6; k++) {
+        const a = -1.1 + k * .44;
+        g.beginPath(); g.moveTo(R * .95, R * .12);
+        g.quadraticCurveTo(Math.cos(a) * R * .75, Math.sin(a) * R * .75, Math.cos(a * 1.5) * R * .88, Math.sin(a * 1.5) * R * .88);
+        g.stroke();
+    }
+    g.fillStyle = 'rgba(200,235,255,.45)'; g.strokeStyle = 'rgba(255,255,255,.7)'; g.lineWidth = 24 * S;   // 각막 : 앞으로 볼록
+    g.beginPath(); g.ellipse(-R - 40 * S, 0, 260 * S, 620 * S, 0, Math.PI / 2, Math.PI * 1.5); g.fill(); g.stroke();
+    const [ix, iy] = Q(1150, 2400), pupil = (150 + Math.sin(t * .7) * 50) * S;                    // 홍채 · 동공
+    g.fillStyle = 'rgba(90,140,200,.85)'; g.beginPath(); g.ellipse(ix, iy, 90 * S, 480 * S, 0, 0, TAU); g.fill();
+    g.fillStyle = '#10141c'; g.beginPath(); g.ellipse(ix, iy, 70 * S, pupil, 0, 0, TAU); g.fill();
+    const [lx, ly] = Q(1450, 2400), thick = (190 + Math.sin(t * .9) * 40) * S;                     // 수정체
+    g.fillStyle = 'rgba(250,250,240,.85)'; g.strokeStyle = 'rgba(0,0,0,.25)'; g.lineWidth = 14 * S;
+    g.beginPath(); g.ellipse(lx, ly, thick, 380 * S, 0, 0, TAU); g.fill(); g.stroke();
+    g.fillStyle = 'rgba(160,80,70,.6)';                                                           // 섬모체
+    [-1, 1].forEach(sd => { g.beginPath(); g.ellipse(lx, ly + sd * 520 * S, 110 * S, 150 * S, 0, 0, TAU); g.fill(); });
+    drawFace(g, 0, 0, 380 * S, i);                                                                // 비워 둔 한가운데
+    g.restore();
+}
+
 function drawLandmarks(g, inView) {
     const lms = track.sys.landmarks;
     if (!lms) return;
@@ -6203,6 +6319,10 @@ function drawLandmarks(g, inView) {
             });
         } else if (lm.type === 'chest') {
             drawChest(g, t, i);
+        } else if (lm.type === 'nephron') {
+            drawNephron(g, t, i, lm.s || 1);
+        } else if (lm.type === 'eye') {
+            drawEye(g, t, i, lm.s || 1);
         }
         g.restore();
     });
